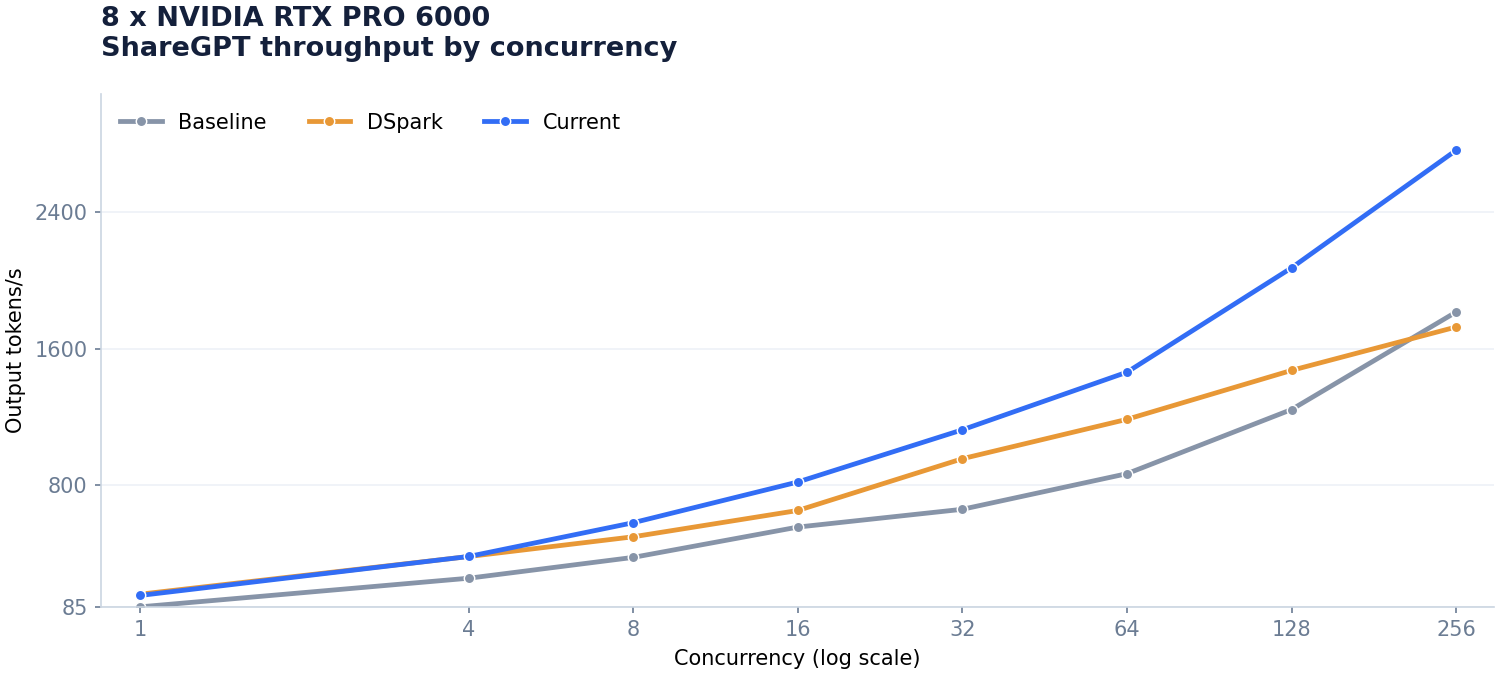
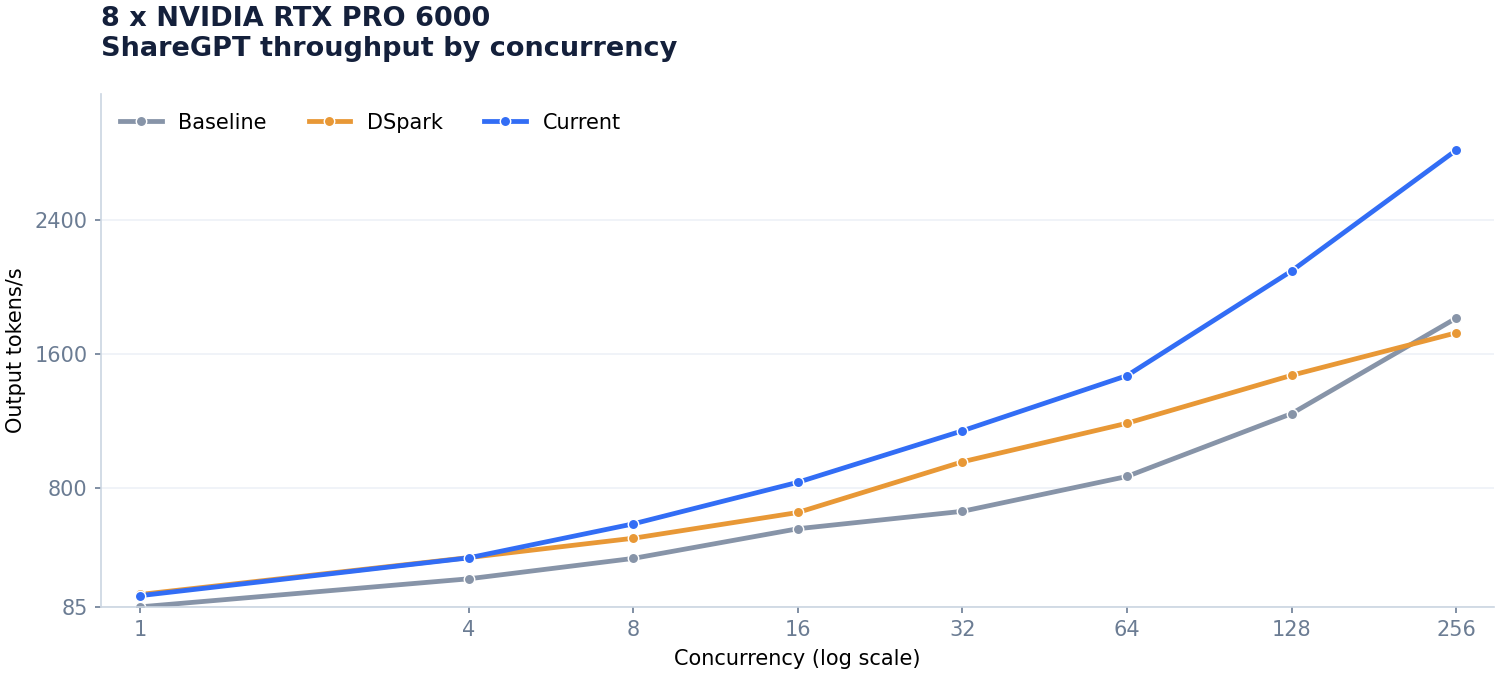
Bound candidate masking

diff --git a/8-nvidia-rtx-pro-6000/CHANGELOG.md b/8-nvidia-rtx-pro-6000/CHANGELOG.md
@@ -4,10 +4,9 @@ The patch is cumulative against `vllm/vllm-openai:v0.32.0`; every working milest
 
 FlashInfer 0.7.1 replaces the bundled 0.7.0.post1 for runtime page-size support, and both the sm120 compatibility patch and `--block-size 64` are required.
 
-## 8. Native FP8 cache
+## 9. Bounded candidate masking
 
-- Connect vLLM's existing V4.1 cache writers to FlashInfer 0.7.1's sm120 kernels because the original sm120 path still uses the older V4 layout.
-- Quantize the RoPE dimensions to FP8 alongside the other cache values, reducing each record from 584 to 528 bytes and CUDA graph memory from 9.05 to 8.32 GiB per GPU.
+- Mask only valid logits during sm120 decode in diff.patch because top-k already ignores columns beyond each request's context.
 
 Requirements, on a fresh vLLM image:
 
@@ -40,14 +39,14 @@ vllm serve deepseek-ai/DeepSeek-V4.1-Flash-1017 \
 
 | Concurrency | Prompts | Output t/s | p95 TTFT (ms) | p95 TPOT (ms) |
 |---:|---:|---:|---:|---:|
-| 1 | 128 | 151.8 | 129.6 | 7.94 |
-| 4 | 128 | 380.7 | 110.3 | 12.94 |
-| 8 | 128 | 578.9 | 218.0 | 15.89 |
-| 16 | 128 | 817.6 | 280.7 | 22.73 |
-| 32 | 128 | 1123.7 | 393.4 | 30.40 |
-| 64 | 128 | 1461.5 | 809.5 | 50.33 |
-| 128 | 256 | 2073.4 | 1561.4 | 73.73 |
-| 256 | 512 | 2762.7 | 2678.8 | 135.82 |
+| 1 | 128 | 152.0 | 129.8 | 7.88 |
+| 4 | 128 | 378.7 | 113.4 | 12.74 |
+| 8 | 128 | 582.4 | 214.0 | 15.74 |
+| 16 | 128 | 831.4 | 275.5 | 22.44 |
+| 32 | 128 | 1139.8 | 388.6 | 30.54 |
+| 64 | 128 | 1470.3 | 801.5 | 43.60 |
+| 128 | 256 | 2097.0 | 1354.1 | 72.29 |
+| 256 | 512 | 2820.1 | 2783.5 | 139.30 |
 
 ## Accepted progress
 
@@ -60,4 +59,5 @@ vllm serve deepseek-ai/DeepSeek-V4.1-Flash-1017 \
 | 5 | Expert parallelism | 138.0 | [`c5aada3`](https://github.com/alvarobartt/DeepSeek-V4.1-Flash-RTX-PRO-6000/tree/c5aada30e6d6be4d72714d1bad1446d6e35abd00) |
 | 6 | Indexer scratch memory | 138.4 | [`891d19f`](https://github.com/alvarobartt/DeepSeek-V4.1-Flash-RTX-PRO-6000/tree/891d19f0991391ec7d65bf11ca467aef21ffa5c4) |
 | 7 | Small-message all-reduce | 151.5 | [`36eef82`](https://github.com/alvarobartt/DeepSeek-V4.1-Flash-RTX-PRO-6000/tree/36eef8206664ec7fe510d0b24f52296a87a950b9) |
-| 8 | Native FP8 cache | 151.8 | This revision |
+| 8 | Native FP8 cache | 151.8 | [`a9e6ae8`](https://github.com/alvarobartt/DeepSeek-V4.1-Flash-RTX-PRO-6000/tree/a9e6ae8dd71ddca1d6a113493d382719633b3a5c) |
+| 9 | Bounded candidate masking | 152.0 | This revision |

diff --git a/README.md b/README.md
@@ -15,14 +15,14 @@ Validated serving recipes for four and eight GPUs, using the checkpoint's origin
 
 | Concurrency | Baseline t/s [^8gpu-baseline] | Baseline + DSpark t/s | Current t/s |
 |---:|---:|---:|---:|
-| 1 | 85.0 | **159.2 (+87.3%)** | 151.8 (-4.6%) |
-| 4 | 253.2 | 380.4 (+50.2%) | **380.7 (+0.1%)** |
-| 8 | 375.4 | 496.2 (+32.2%) | **578.9 (+16.7%)** |
-| 16 | 553.1 | 650.5 (+17.6%) | **817.6 (+25.7%)** |
-| 32 | 657.4 | 954.1 (+45.1%) | **1123.7 (+17.8%)** |
-| 64 | 866.2 | 1185.0 (+36.8%) | **1461.5 (+23.3%)** |
-| 128 | 1242.4 | 1471.9 (+18.5%) | **2073.4 (+40.9%)** |
-| 256 | 1814.1 | 1726.3 (-4.8%) | **2762.7 (+60.0%)** |
+| 1 | 85.0 | **159.2 (+87.3%)** | 152.0 (-4.5%) |
+| 4 | 253.2 | **380.4 (+50.2%)** | 378.7 (-0.4%) |
+| 8 | 375.4 | 496.2 (+32.2%) | **582.4 (+17.4%)** |
+| 16 | 553.1 | 650.5 (+17.6%) | **831.4 (+27.8%)** |
+| 32 | 657.4 | 954.1 (+45.1%) | **1139.8 (+19.5%)** |
+| 64 | 866.2 | 1185.0 (+36.8%) | **1470.3 (+24.1%)** |
+| 128 | 1242.4 | 1471.9 (+18.5%) | **2097.0 (+42.5%)** |
+| 256 | 1814.1 | 1726.3 (-4.8%) | **2820.1 (+63.4%)** |
 
 ![Accepted ShareGPT c1 throughput](8-nvidia-rtx-pro-6000/throughput.png)
 
